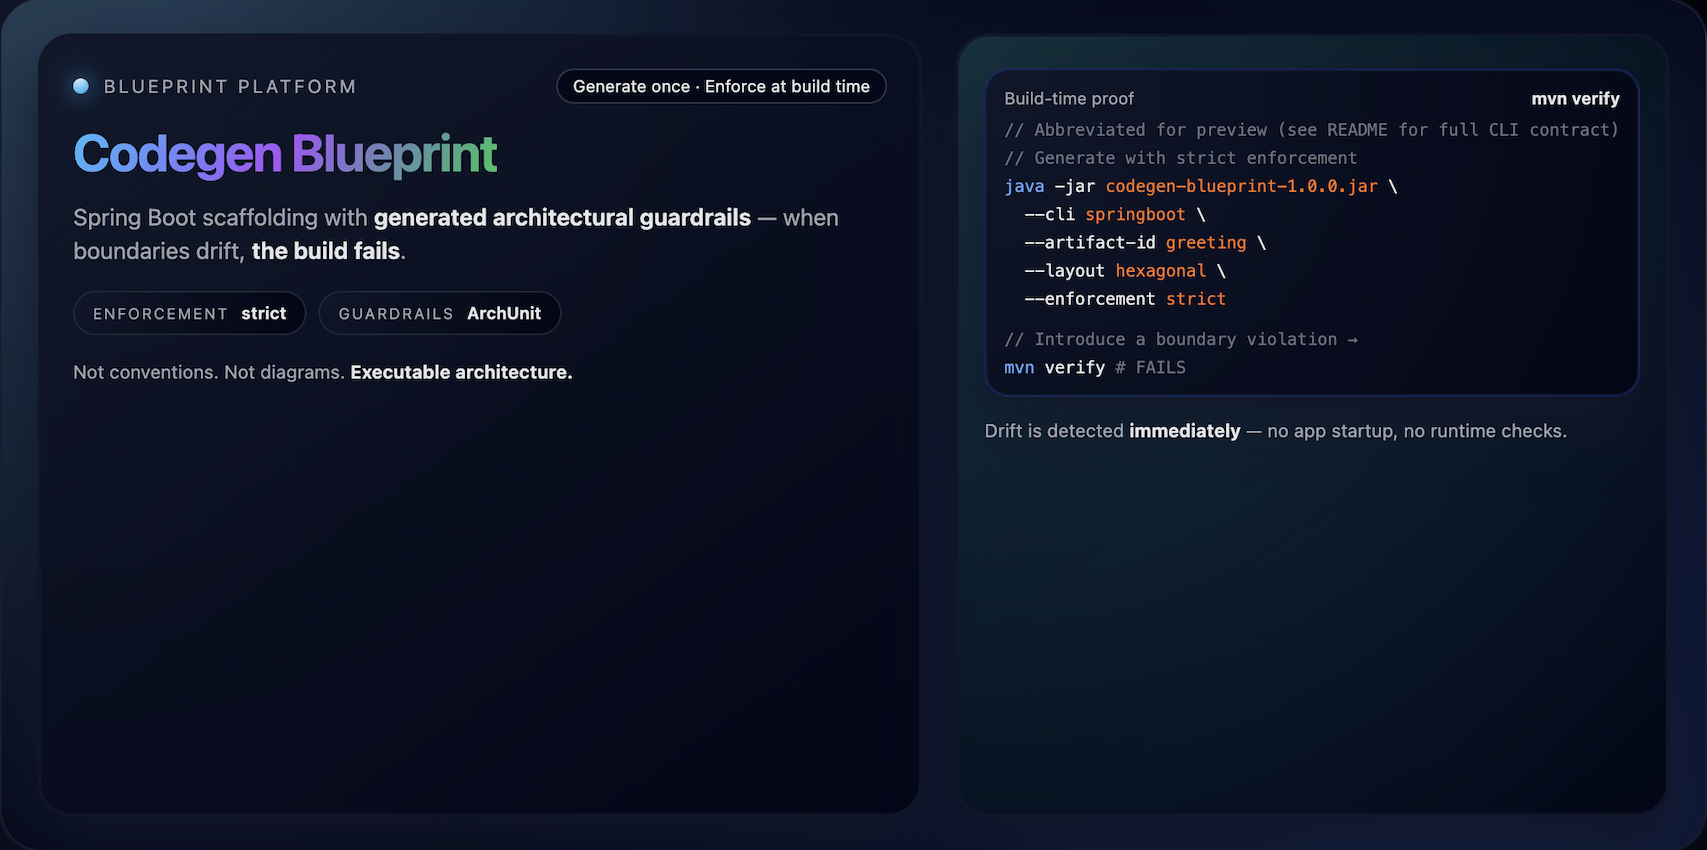
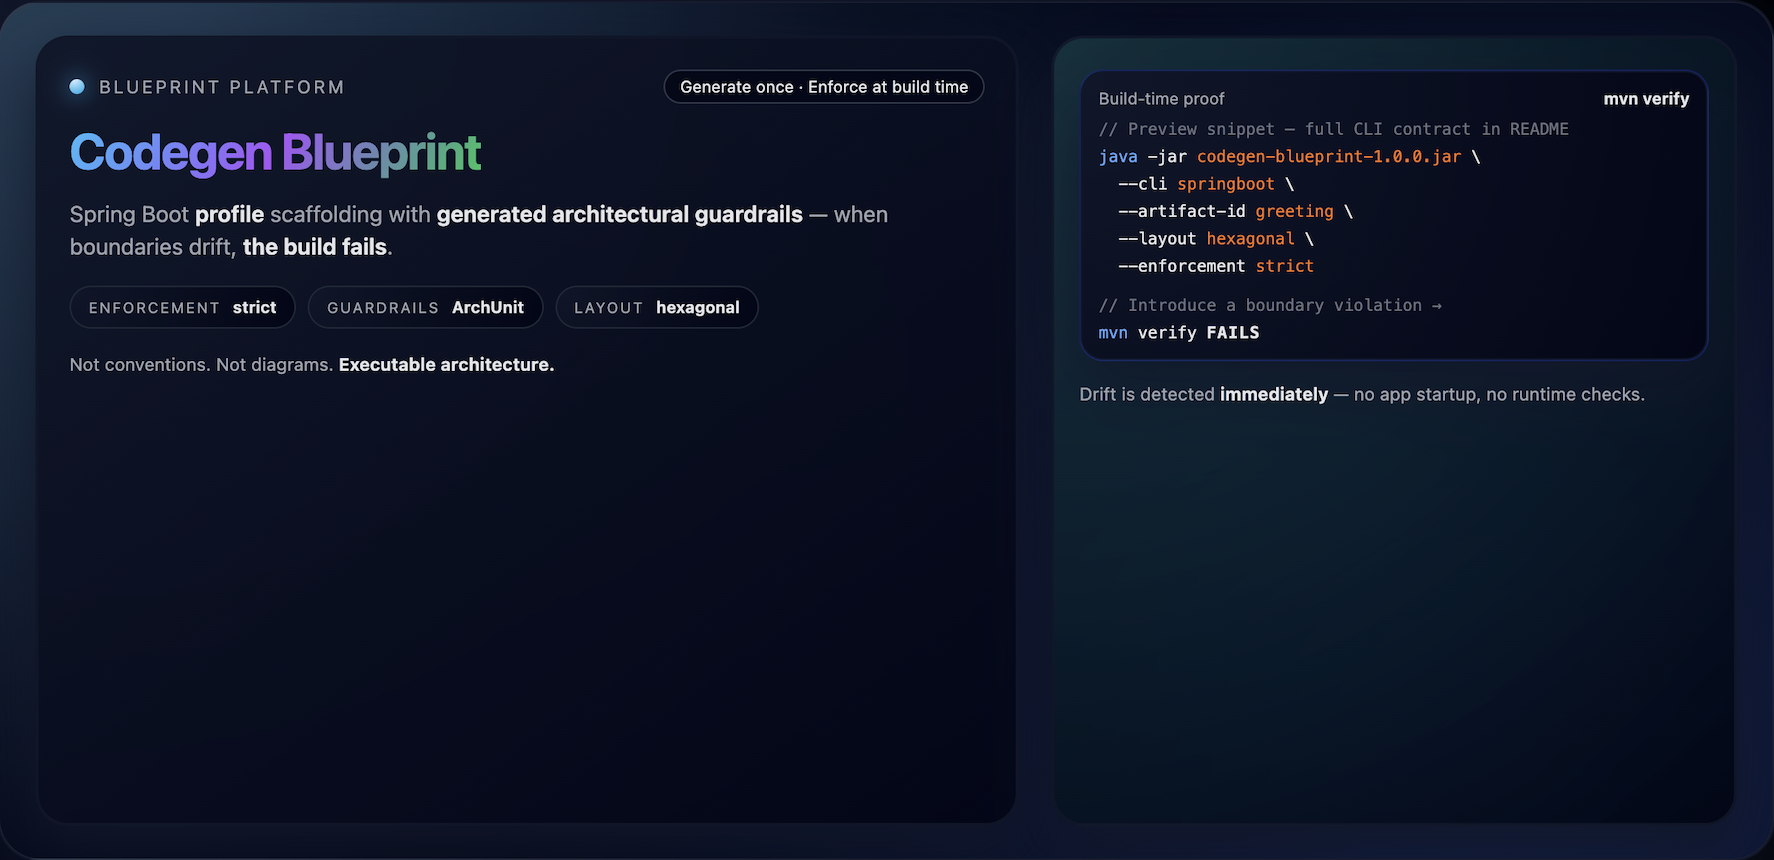
docs: finalize cover visuals and social preview assets
- Update README hero cover (cover.png)
- Add GitHub social preview image (cover-mini.png)
- Move and rename HTML sources under docs/images/cover
- Remove obsolete design drafts

diff --git a/docs/images/cover/cover-mini.html b/docs/images/cover/cover-mini.html
@@ -21,7 +21,7 @@
 
     * { box-sizing: border-box; margin: 0; padding: 0; }
 
-    html, body { width: 1200px; height: 630px; }
+    html, body { width: 1280px; height: 640px; }
 
     body {
       font-family: var(--font-main);
@@ -33,8 +33,8 @@
     }
 
     .frame {
-      width: 1120px;
-      height: 560px;
+      width: 1200px;
+      height: 580px;
       border-radius: 28px;
       border: 1px solid rgba(148, 163, 184, 0.15);
       background: radial-gradient(circle at top left, #1e293b 0, #020617 45%, #020617 100%);
@@ -208,6 +208,11 @@
       gap: 6px;
     }
 
+    .fail {
+      font-weight: 800;
+      letter-spacing: 0.06em;
+    }
+
     .code .muted { color: #6b7280; }
     .code .key { color: #60a5fa; }
     .code .str { color: #f97316; }
@@ -241,7 +246,8 @@
       <h1><span class="highlight">Codegen Blueprint</span></h1>
 
       <div class="subtitle">
-        Spring Boot scaffolding with <strong>generated architectural guardrails</strong> — when boundaries drift, <strong>the build fails</strong>.
+        Spring Boot <strong>profile</strong> scaffolding with <strong>generated architectural guardrails</strong> —
+        when boundaries drift, <strong>the build fails</strong>.
       </div>
 
 
@@ -253,6 +259,10 @@
         <div class="badge">
           <span class="badge-label">Guardrails</span>
           <span class="badge-value">ArchUnit</span>
+        </div>
+        <div class="badge">
+          <span class="badge-label">Layout</span>
+          <span class="badge-value">hexagonal</span>
         </div>
       </div>
 
@@ -270,8 +280,7 @@
         </div>
 
         <div class="code">
-          <div class="code-line muted">// Abbreviated for preview (see README for full CLI contract)</div>
-          <div class="code-line muted">// Generate with strict enforcement</div>
+          <div class="code-line muted">// Preview snippet — full CLI contract in README</div>
 
           <div class="code-line"><span class="key">java</span> -jar <span class="str">codegen-blueprint-1.0.0.jar</span> &bsol;</div>
           <div class="code-line">  --cli <span class="str">springboot</span> &bsol;</div>
@@ -280,13 +289,11 @@
           <div class="code-line">  --enforcement <span class="str">strict</span></div>
 
           <div class="code-line muted" style="margin-top: 8px;">// Introduce a boundary violation →</div>
-          <div class="code-line"><span class="key">mvn</span> verify <span class="muted"># FAILS</span></div>
+          <div class="code-line"><span class="key">mvn</span> verify <span class="fail">FAILS</span></div>
         </div>
       </div>
 
-      <div class="proof-callout">
-        Drift is detected <strong>immediately</strong> — no app startup, no runtime checks.
-      </div>
+      <div class="proof-callout">Drift is detected <strong>immediately</strong> — no app startup, no runtime checks.</div>
     </div>
 
   </div>

diff --git a/docs/images/cover/cover.html b/docs/images/cover/cover.html
@@ -347,9 +347,8 @@
         </h1>
 
         <div class="subtitle">
-          Profile-driven project generator with <strong>executable architecture</strong> —
-          standardized Spring Boot scaffolding plus <strong>explicit architectural boundaries</strong>,
-          designed for long-term architectural consistency across teams.
+          Profile-driven generator with <strong>executable architecture</strong> —
+          explicit architectural boundaries enforced at build time.
         </div>
 
         <div class="bullets">
@@ -408,11 +407,14 @@
           <div class="code-header-dot"></div>
           <span>Generate a new service</span>
         </div>
-        <span>CLI profile · springboot-maven-java</span>
+        <div class="code-header-meta">
+          <span>CLI profile · springboot-maven-java</span>
+          <span class="code-header-hint">Profile selects stack, engine remains stable</span>
+        </div>
       </div>
 
       <div class="code-window">
-        <div class="code-line code-muted">// Generate a Spring Boot project (layout + enforcement)</div>
+        <div class="code-line code-muted">// Generate a service (profile-selected stack · layout + enforcement)</div>
 
         <div class="code-line code-cmd"><span class="code-key">java</span> -jar <span class="code-str">codegen-blueprint-1.0.0.jar</span> &bsol;</div>
         <div class="code-line code-cmd">  --cli <span class="code-str">springboot</span> &bsol;</div>
@@ -430,7 +432,7 @@
         <div class="code-line code-cmd">  --dependency <span class="code-str">data_jpa</span> &bsol;</div>
         <div class="code-line code-cmd">  --target-dir <span class="code-str">/path/to/output</span></div>
 
-        <div class="code-line code-muted" style="margin-top: 8px;">// Defaults → maven · Java 21 · Spring Boot 3.5.x</div>
+        <div class="code-line code-muted" style="margin-top: 8px;">// Profile defaults → maven · Java 21 · Spring Boot 3.5.x</div>
       </div>
     </div>
   </div>
